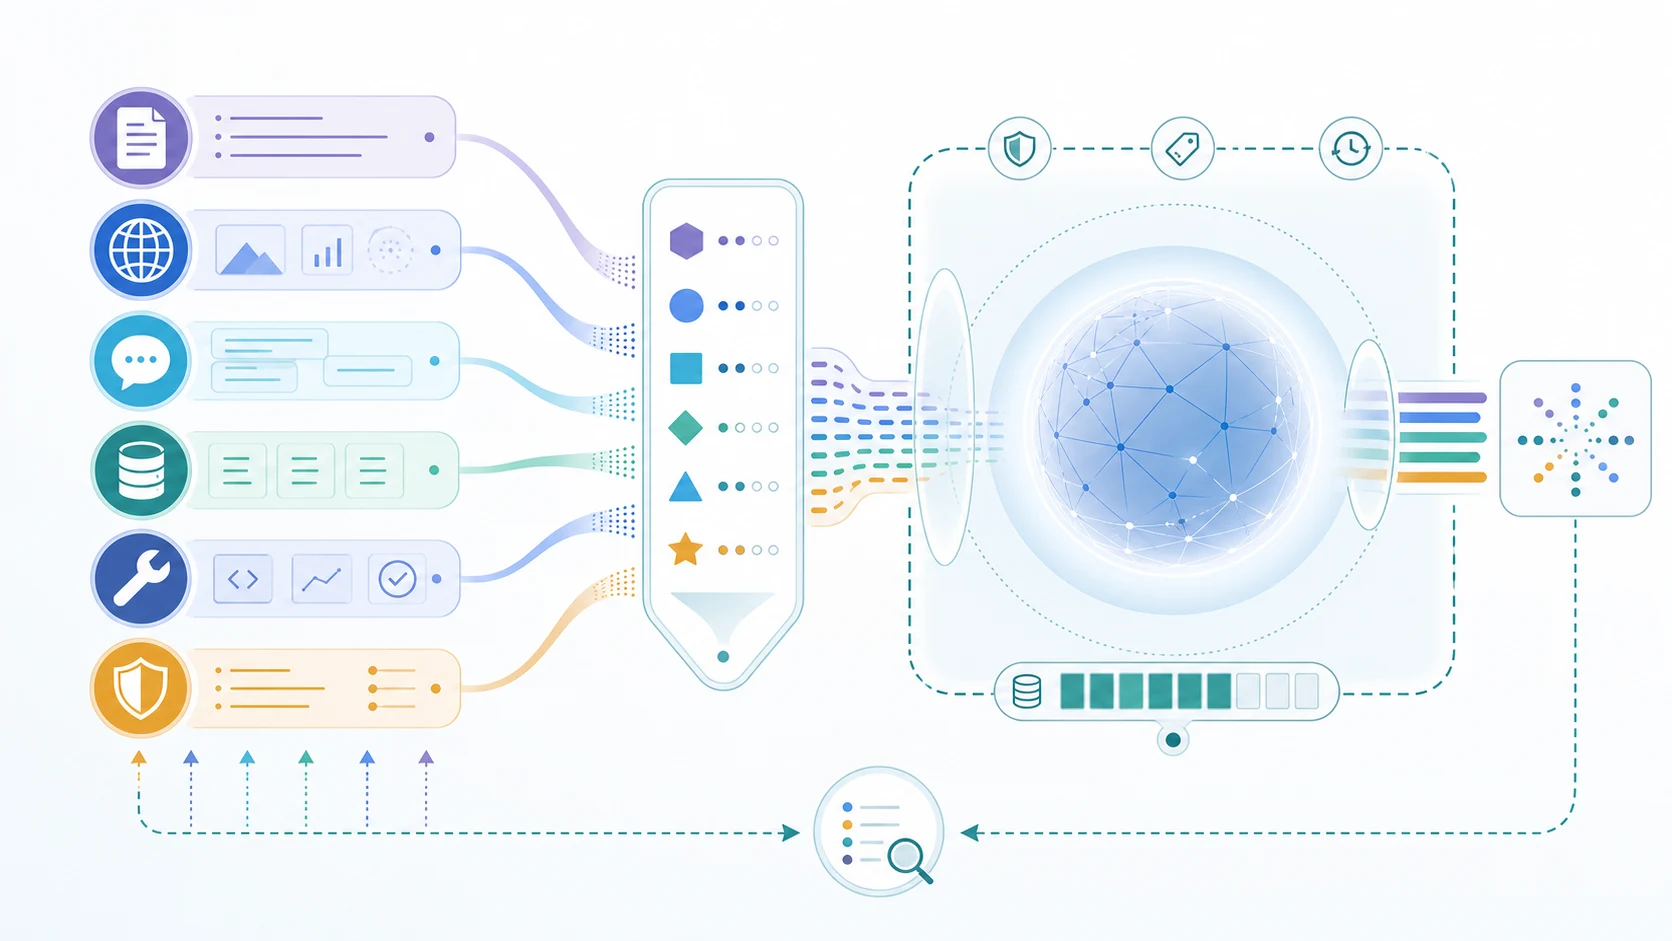
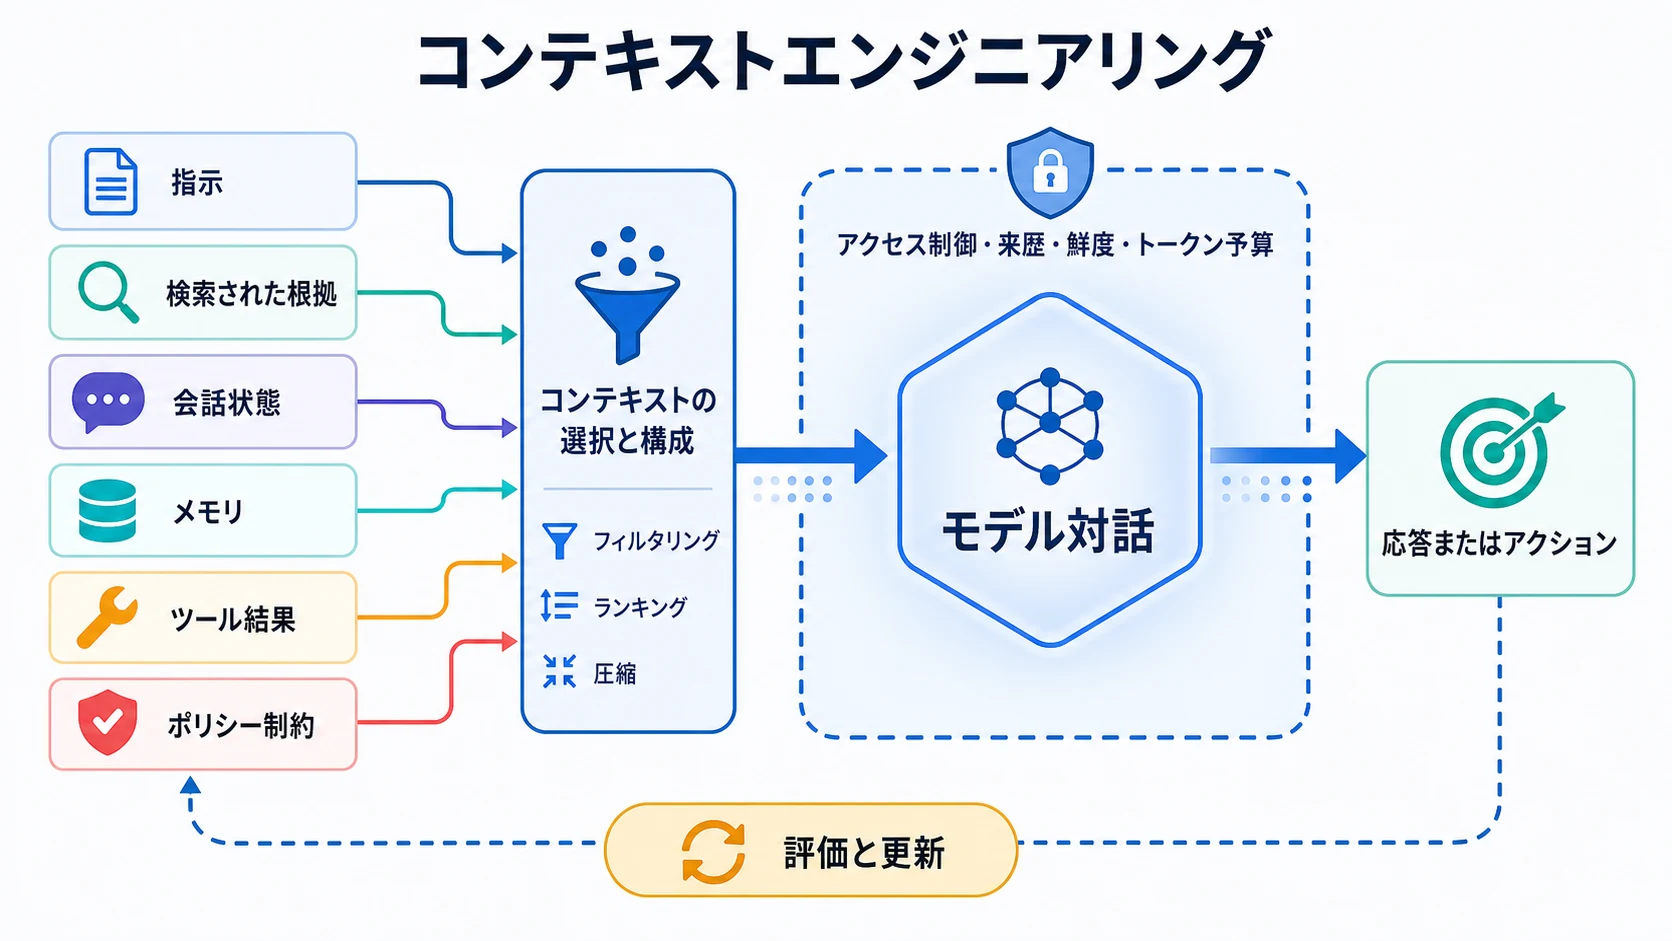
docs: Update image generation prompts for Context Engineering with clearer instructions and layout details

diff --git a/prompts/docs/ai/imagen/06-context-engineering-image.md b/prompts/docs/ai/imagen/06-context-engineering-image.md
@@ -15,7 +15,11 @@ An AI system produces better bounded behavior when it deliberately selects, prio
 Composition:
 
 - Use a 16:9 landscape composition on a light background.
-- Show several distinct information sources—instructions, retrieved documents, conversation state, memory, tool results, and policy constraints—as clean modular cards or streams.
+- Place the title **Context Engineering** at the top center.
+- Show six distinct, clearly labeled source cards on the left: **Instructions**, **Retrieved Evidence**, **Conversation State**, **Memory**, **Tool Results**, and **Policy Constraints**.
+- Place a central, clearly labeled assembly layer named **Select and Assemble Context** between the source cards and the model interaction space.
+- Label the central destination **Model Interaction** and label its enclosing boundary **Access • Provenance • Freshness • Token Budget**.
+- Label the focused output **Response or Action** and the returning feedback path **Evaluate and Refresh**.
 - Show a visible selection and assembly layer that filters, ranks, and compresses these inputs before they enter a central model interaction space.
 - Surround the assembled context with a subtle boundary suggesting access control, provenance, freshness, and token budget.
 - Show a focused output emerging from the model interaction, with a small feedback path returning to evaluation and refresh.
@@ -29,6 +33,7 @@ Style:
 
 Constraints:
 
-- Do not include readable text, logos, watermarks, or vendor-specific visual cues.
+- Render every title and label above exactly as written, in clear, legible sans-serif type. Do not add any other text.
+- Do not include logos, watermarks, or vendor-specific visual cues.
 - Do not represent context as only a single prompt or a vector database.
 - Keep the composition spacious and intelligible rather than a dense process diagram.
